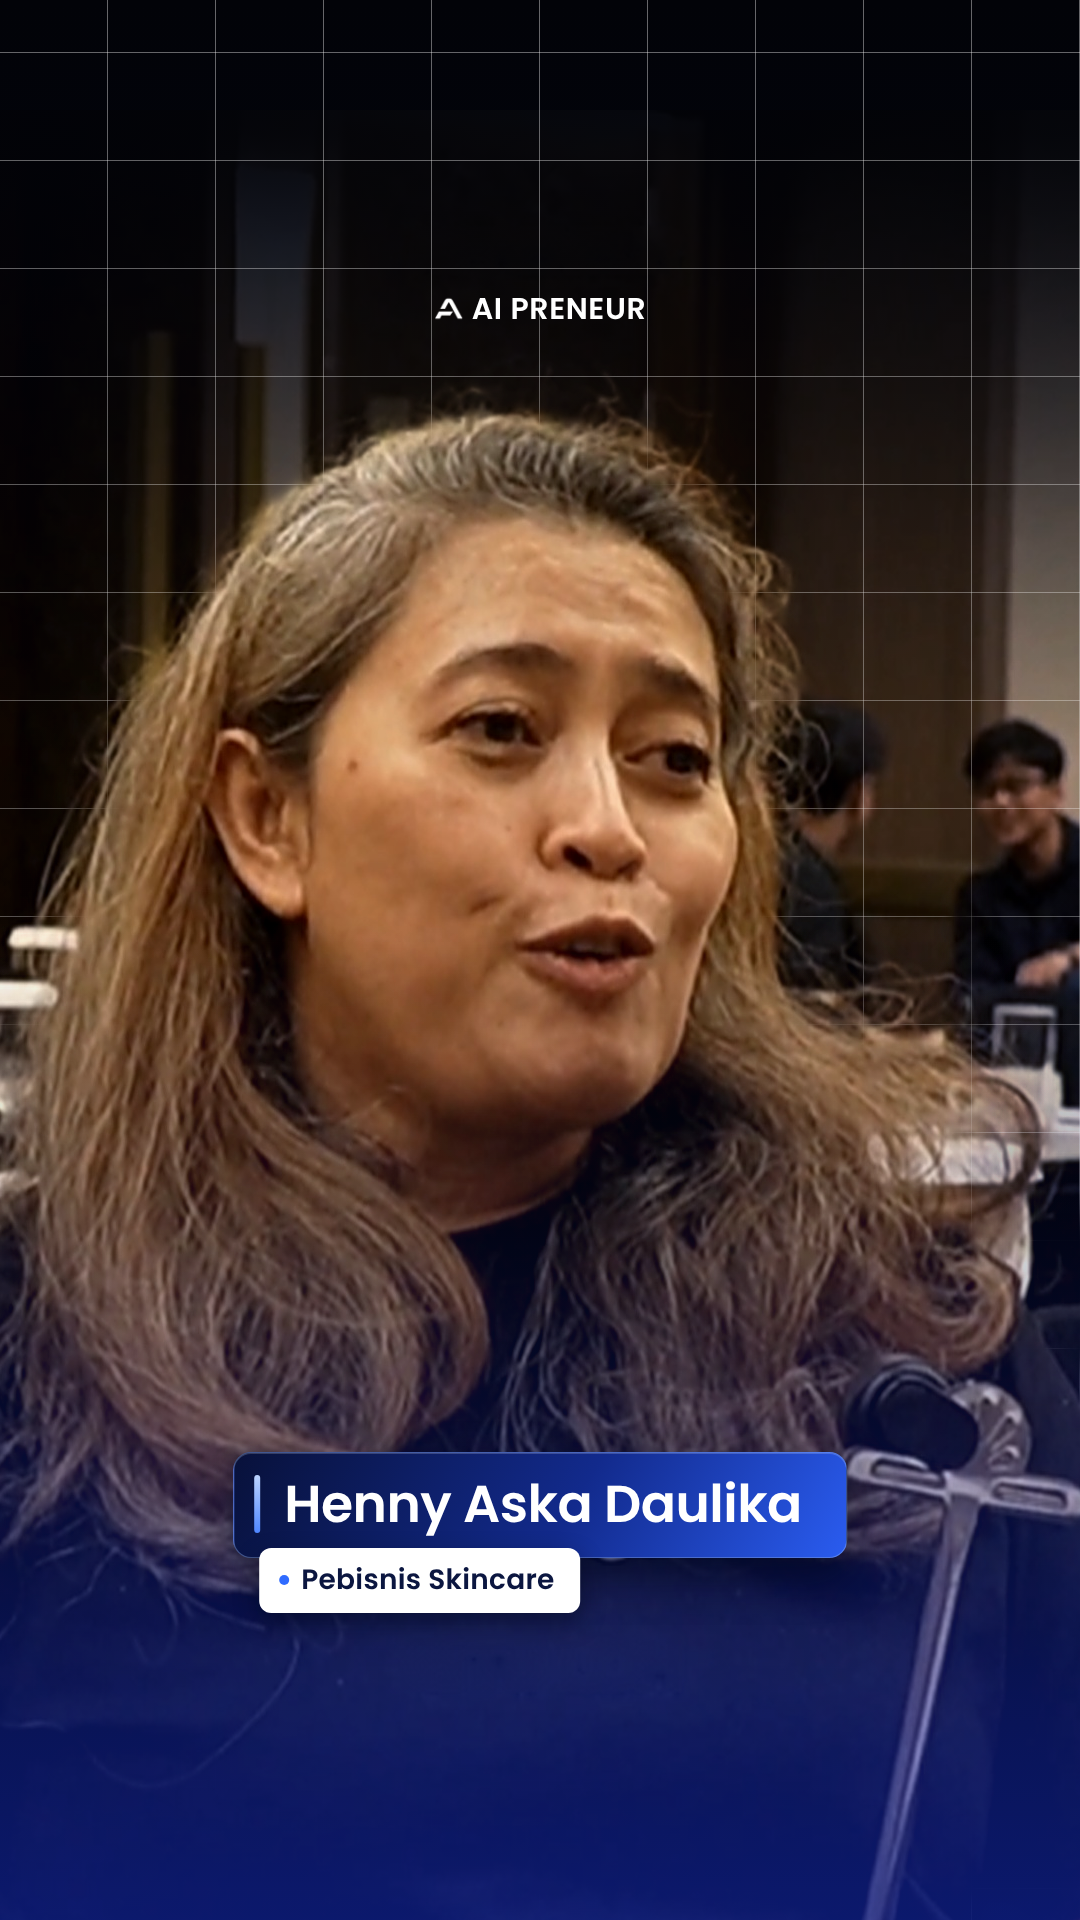
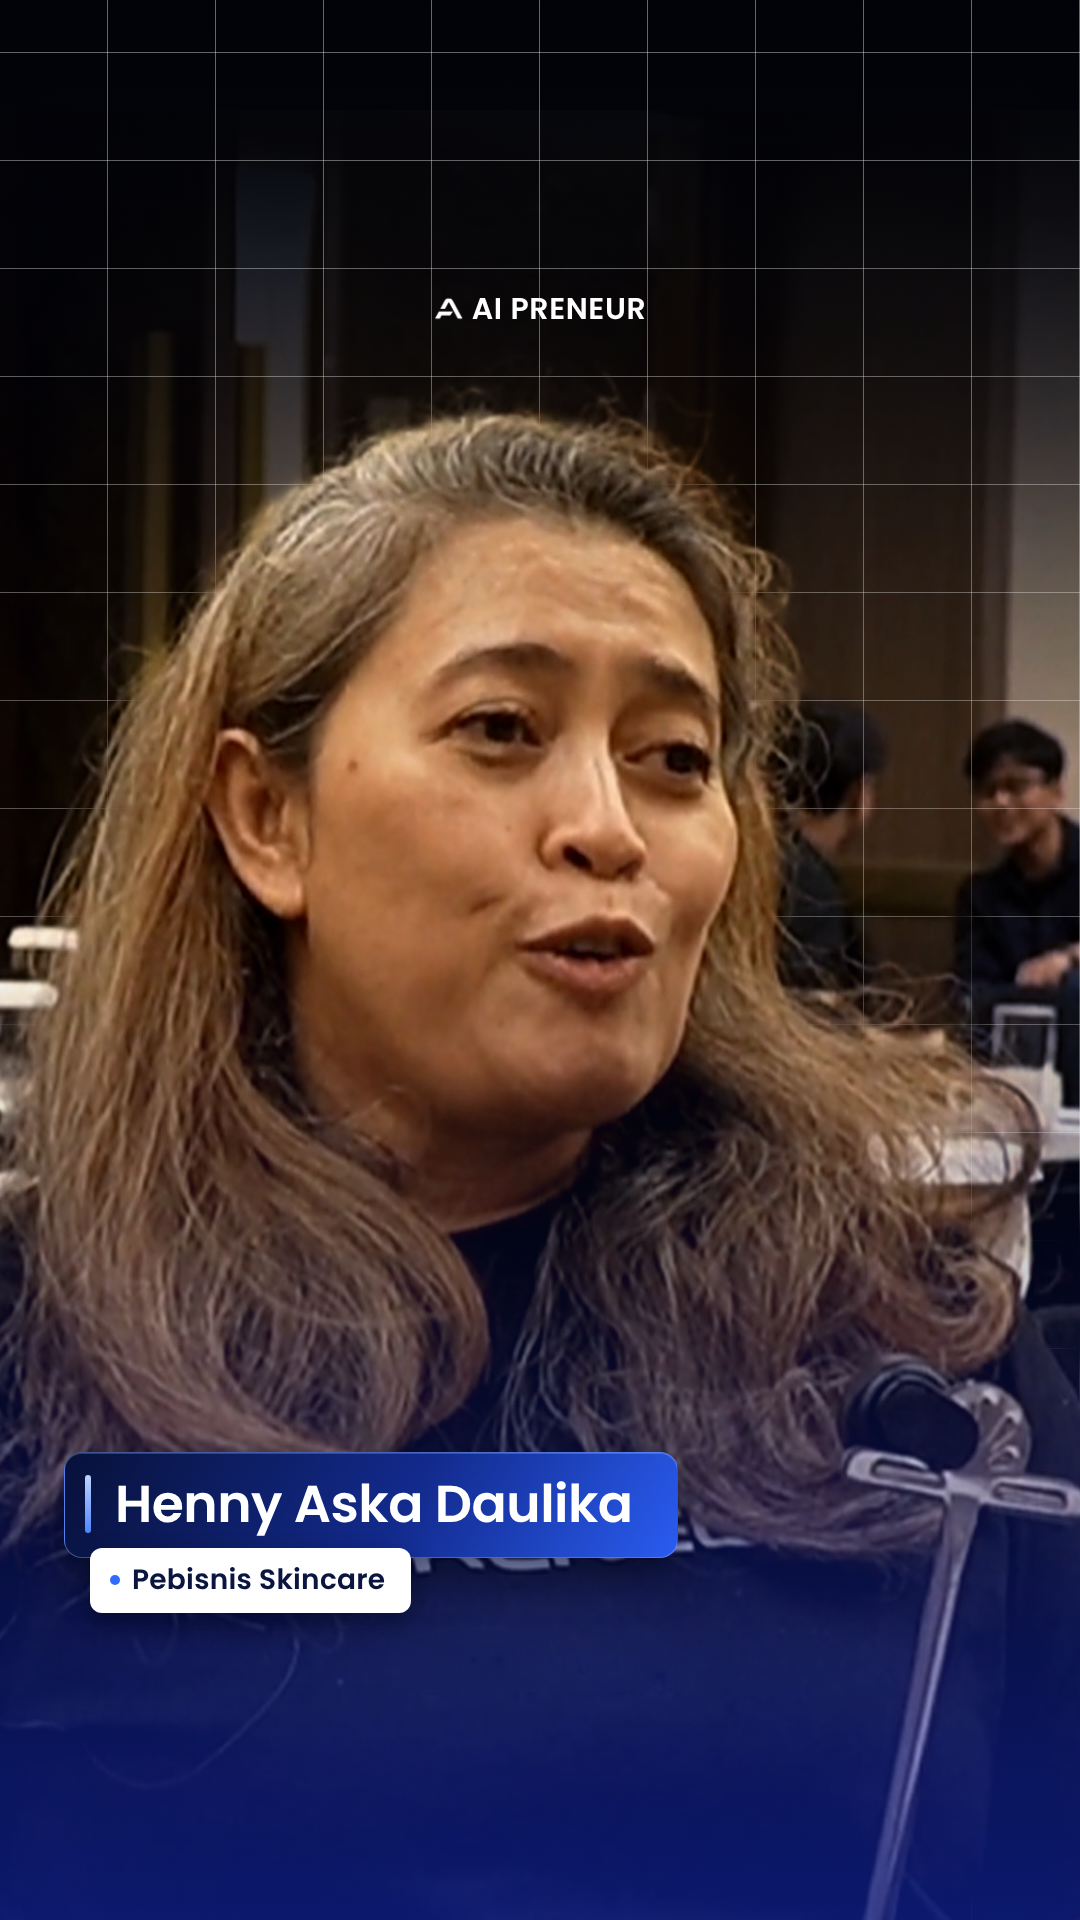
Thumbnail: name card moved to the left edge
Claude-Session: https://claude.ai/code/session_01FYKeHQysKjzco9uu7WCLcY

Changed region(s): [[0.0611, 0.75, 0.7944, 0.8438]]

diff --git a/thumbnail-name-card/thumb.html b/thumbnail-name-card/thumb.html
@@ -27,7 +27,7 @@ body{width:1080px;height:1920px;overflow:hidden;background:var(--navy);font-fami
 .logo{position:absolute;top:286px;left:0;right:0;display:flex;justify-content:center;align-items:center;gap:2px;
   color:#fff;font-weight:600;font-size:30px;letter-spacing:.02em}
 .logo img{height:30px;margin-right:6px;filter:brightness(1.4)}
-.name{position:absolute;left:50%;top:1452px;transform:translateX(-50%);display:flex;flex-direction:column;align-items:flex-start}
+.name{position:absolute;left:64px;top:1452px;display:flex;flex-direction:column;align-items:flex-start}
 .card{position:relative;padding:22px 44px 24px 50px;border-radius:18px;
   background:linear-gradient(120deg,#08113a 0%,#122a8c 55%,#2a5cf0 100%);
   border:1.5px solid rgba(156,192,255,.38);box-shadow:0 18px 40px rgba(2,6,22,.55),inset 0 1px 0 rgba(255,255,255,.18)}
